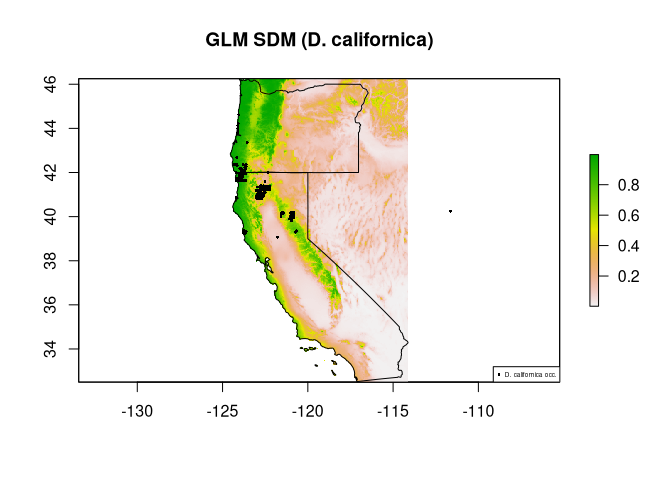
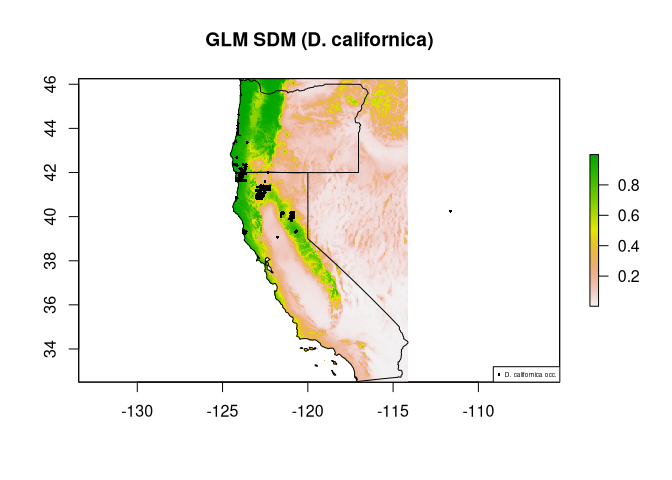
Update README

diff --git a/README.md b/README.md
@@ -1,3 +1,36 @@
+-   [An overview of Species Distribution Modeling in
+    R](#an-overview-of-species-distribution-modeling-in-r)
+    -   [This demo was largely based on Hijmans & Elith, 2013, Franklin
+        2010 and the sdm and dismo documentation pages. The rspatial.org
+        SDM walkthrough is similar to this walkthrough– with more detail
+        but without illustration of some methods like discerning
+        predictor contribution and using the vifstep() function. This
+        document aims to provide a walkthrough of SDM and popular
+        implementations in R as of
+        Fall 2020.](#this-demo-was-largely-based-on-hijmans-elith-2013-franklin-2010-and-the-sdm-and-dismo-documentation-pages.-the-rspatial.org-sdm-walkthrough-is-similar-to-this-walkthrough-with-more-detail-but-without-illustration-of-some-methods-like-discerning-predictor-contribution-and-using-the-vifstep-function.-this-document-aims-to-provide-a-walkthrough-of-sdm-and-popular-implementations-in-r-as-of-fall-2020.)
+    -   [If you already have an understanding of the motivation of SDM,
+        continue here to learn more about implementation. If you’d like
+        a brief refresher on the motivation and general application of
+        SDM take a look at the powerpoint in this git
+        repository.](#if-you-already-have-an-understanding-of-the-motivation-of-sdm-continue-here-to-learn-more-about-implementation.-if-youd-like-a-brief-refresher-on-the-motivation-and-general-application-of-sdm-take-a-look-at-the-powerpoint-in-this-git-repository.)
+    -   [Feel free to download the sdm\_demo.R script, install the
+        necessary packages, and run and manipulate this code as you see
+        fit.](#feel-free-to-download-the-sdm_demo.r-script-install-the-necessary-packages-and-run-and-manipulate-this-code-as-you-see-fit.)
+-   [(A) Data Preparation](#a-data-preparation)
+    -   [Species occurrence data](#species-occurrence-data)
+    -   [Environmental predictor data](#environmental-predictor-data)
+    -   [SDM-ready dataframe of predictor values and species
+        presence/(pseudo)absence](#sdm-ready-dataframe-of-predictor-values-and-species-presencepseudoabsence)
+    -   [Collinearity of predictors](#collinearity-of-predictors)
+-   [(B) Manual (base R) SDM](#b-manual-base-r-sdm)
+    -   [Linear model](#linear-model)
+    -   [Generalized Linear Model SDM](#generalized-linear-model-sdm)
+-   [(C) Popular SDM methods in R](#c-popular-sdm-methods-in-r)
+    -   [dismo Package](#dismo-package)
+    -   [sdm Package](#sdm-package)
+-   [(D) Model Evaluation methodologies (coming
+    soon!)](#d-model-evaluation-methodologies-coming-soon)
+
 An overview of Species Distribution Modeling in R
 =================================================
 
@@ -143,16 +176,21 @@ SDM-ready dataframe of predictor values and species presence/(pseudo)absence
     ## 5 1  75  160   -2  956
     ## 6 1  86  172    6  915
 
-    # Collinearity can cause problems in Species Distribution Models. My understanding
-    # is that if two or more predictors are collinear across the environmental space, then 
-    # it's difficult to determine which predictor is actually influencing the distribution
-    # of the species (if not both). If the predictors are not collinear in the areas
-    # to which the SDM is projected then the model won't know how to assign probability
-    # of habitat suitability to the independent predictors
+Collinearity of predictors
+--------------------------
+
+Collinearity can cause problems in Species Distribution Models. My
+understanding is that if two or more predictors are collinear across the
+environmental space, then it’s difficult to determine which predictor is
+actually influencing the distribution of the species (if not both). If
+the predictors are not collinear in the areas to which the SDM is
+projected then the model won’t know how to assign probability of habitat
+suitability to the independent predictors
+
     # We can check for collinearity by visually inspecting a scatterplot matrix
     pairs(sdmdata[,2:length(sdmdata)], cex = 0.1, fig=TRUE)
 
-![](README_files/figure-gfm/SDM%20prep-1.png)<!-- -->
+![](README_files/figure-gfm/collinearity-1.png)<!-- -->
 
     # MAT and MTWQ appear to be collinear across this area!
     # There are more quantitative assessments of collinearity (like using the Variance Inlation Factor)
@@ -167,14 +205,14 @@ SDM-ready dataframe of predictor values and species presence/(pseudo)absence
     ## MAT 
     ## 
     ## After excluding the collinear variables, the linear correlation coefficients ranges between: 
-    ## min correlation ( MAP ~ MTCQ ):  0.2056594 
-    ## max correlation ( MTCQ ~ MTWQ ):  0.6378604 
+    ## min correlation ( MAP ~ MTCQ ):  0.2209405 
+    ## max correlation ( MTCQ ~ MTWQ ):  0.6387641 
     ## 
     ## ---------- VIFs of the remained variables -------- 
     ##   Variables      VIF
-    ## 1      MTWQ 6.716486
-    ## 2      MTCQ 5.108818
-    ## 3       MAP 4.159715
+    ## 1      MTWQ 6.352525
+    ## 2      MTCQ 4.996900
+    ## 3       MAP 3.953563
 
     # It appears that when MAT is removed. There aren't significant collinearity 
     # problems among the predictors
@@ -189,7 +227,7 @@ SDM-ready dataframe of predictor values and species presence/(pseudo)absence
 
     pairs(sdmdata[,2:length(sdmdata)], cex = 0.1, fig=TRUE)
 
-![](README_files/figure-gfm/SDM%20prep-2.png)<!-- -->
+![](README_files/figure-gfm/collinearity-2.png)<!-- -->
 
     # Better! 
 
@@ -482,15 +520,15 @@ getmethodNames() to see all possible methods
     ## ---------------------------------------------- 
     ## Based on Correlation metric: 
     ## ---------------------------------------------- 
-    ## MTWQ                : ********************* (41.8 %) 
-    ## MTCQ                : ****** (12.9 %) 
-    ## MAP                 : ******************* (38.4 %) 
+    ## MTWQ                : ********** (19.9 %) 
+    ## MTCQ                : *** (5.4 %) 
+    ## MAP                 : ******************************** (64.9 %) 
     ## ============================================================= 
     ## Based on AUC metric: 
     ## ---------------------------------------------- 
-    ## MTWQ                : **************** (33 %) 
-    ## MTCQ                : ****** (11.3 %) 
-    ## MAP                 : ************** (28.7 %) 
+    ## MTWQ                : ******** (15.5 %) 
+    ## MTCQ                : ** (4.7 %) 
+    ## MAP                 : ************************** (52.5 %) 
     ## =============================================================
 
     # Let's try GAM, a regression method
@@ -516,15 +554,15 @@ getmethodNames() to see all possible methods
     ## ---------------------------------------------- 
     ## Based on Correlation metric: 
     ## ---------------------------------------------- 
-    ## MTWQ                : ************ (24.4 %) 
-    ## MTCQ                : ****************** (36.3 %) 
-    ## MAP                 : ************************* (49.1 %) 
+    ## MTWQ                : ************** (28 %) 
+    ## MTCQ                : ********************* (42.2 %) 
+    ## MAP                 : ********************** (43.2 %) 
     ## ============================================================= 
     ## Based on AUC metric: 
     ## ---------------------------------------------- 
-    ## MTWQ                : ******* (14.4 %) 
-    ## MTCQ                : ****************** (35.8 %) 
-    ## MAP                 : ******************** (39.6 %) 
+    ## MTWQ                : ********* (18.2 %) 
+    ## MTCQ                : **************** (31.1 %) 
+    ## MAP                 : ************************ (49 %) 
     ## =============================================================
 
     # Let's try Random Forest, which is a machine learning method
@@ -550,15 +588,15 @@ getmethodNames() to see all possible methods
     ## ---------------------------------------------- 
     ## Based on Correlation metric: 
     ## ---------------------------------------------- 
-    ## MTWQ                : ********** (20 %) 
-    ## MTCQ                : ********** (20.2 %) 
-    ## MAP                 : ************************** (51.8 %) 
+    ## MTWQ                : ********** (19.2 %) 
+    ## MTCQ                : *********** (22.3 %) 
+    ## MAP                 : ************************** (52 %) 
     ## ============================================================= 
     ## Based on AUC metric: 
     ## ---------------------------------------------- 
-    ## MTWQ                : ****** (11.8 %) 
-    ## MTCQ                : ****** (12.8 %) 
-    ## MAP                 : ********************** (44.4 %) 
+    ## MTWQ                : ***** (9.7 %) 
+    ## MTCQ                : ****** (12.3 %) 
+    ## MAP                 : ********************** (44.5 %) 
     ## =============================================================
 
     # ENSEMBLE let's make an ensemble model of all of them
@@ -587,15 +625,15 @@ getmethodNames() to see all possible methods
     ## ---------------------------------------------- 
     ## Based on Correlation metric: 
     ## ---------------------------------------------- 
-    ## MTWQ                : *******[*******-----] (29.1 %) 
-    ## MTCQ                : ****[*******------] (23.5 %) 
-    ## MAP                 : *******************[***---] (46.2 %) 
+    ## MTWQ                : *******[***--] (22.3 %) 
+    ## MTCQ                : [**********---------] (22.7 %) 
+    ## MAP                 : ********************[******----] (53.1 %) 
     ## ============================================================= 
     ## Based on AUC metric: 
     ## ---------------------------------------------- 
-    ## MTWQ                : **[*******------] (19.8 %) 
-    ## MTCQ                : *[********-------] (20.4 %) 
-    ## MAP                 : **************[****---] (38.6 %) 
+    ## MTWQ                : ****[**--] (14.6 %) 
+    ## MTCQ                [********------] (15.5 %) 
+    ## MAP                 : *********************[**-] (47.9 %) 
     ## =============================================================
 
 (D) Model Evaluation methodologies (coming soon!)
